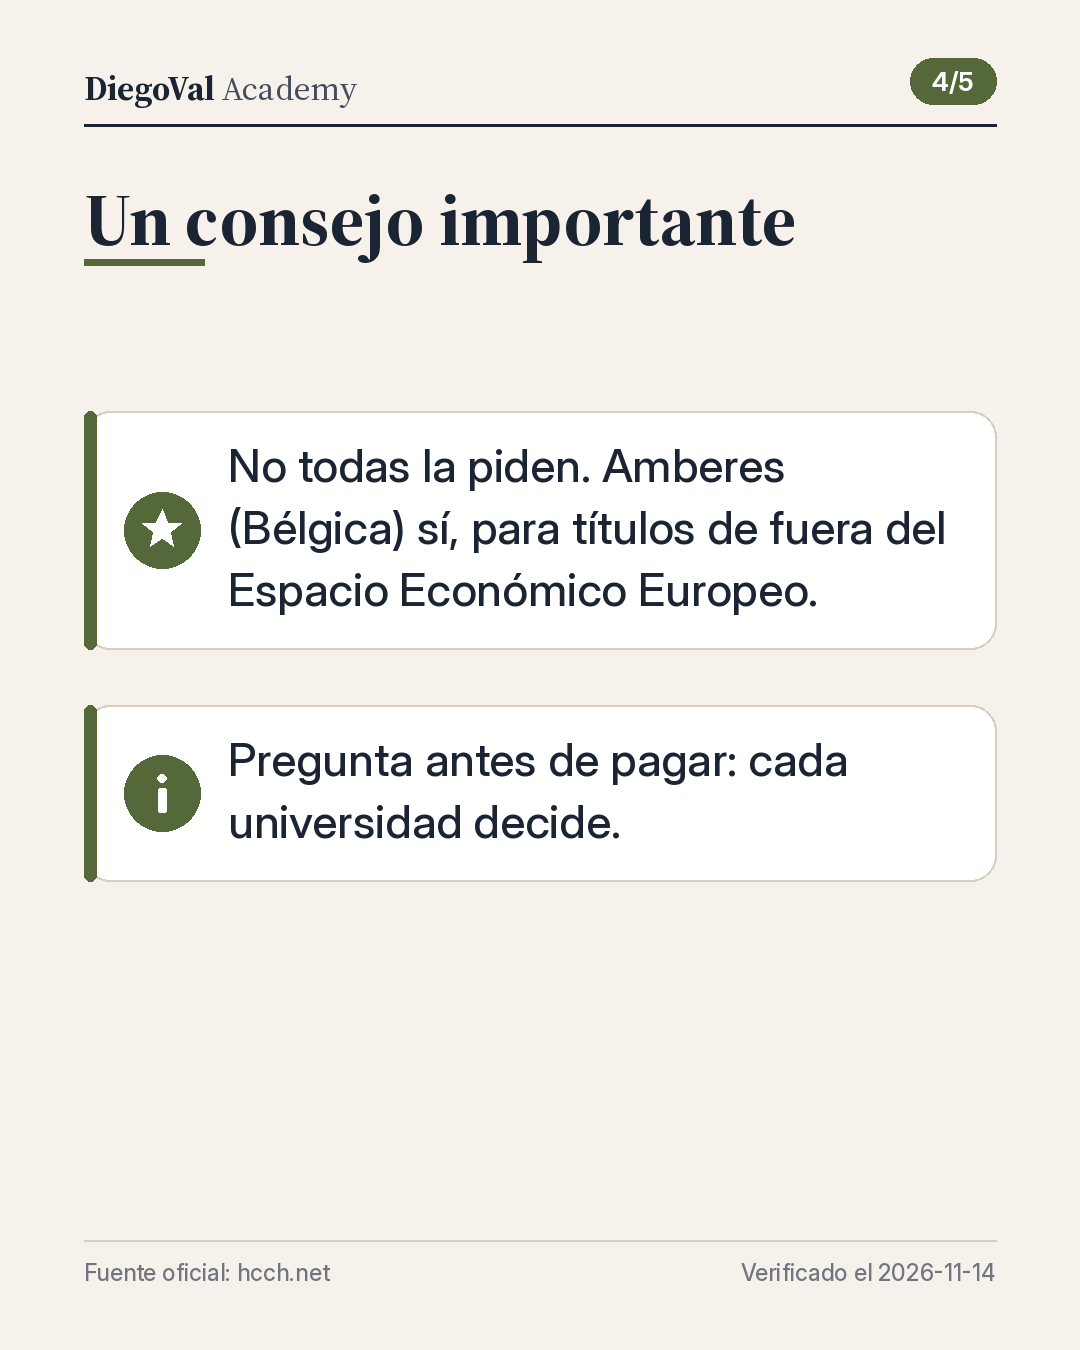
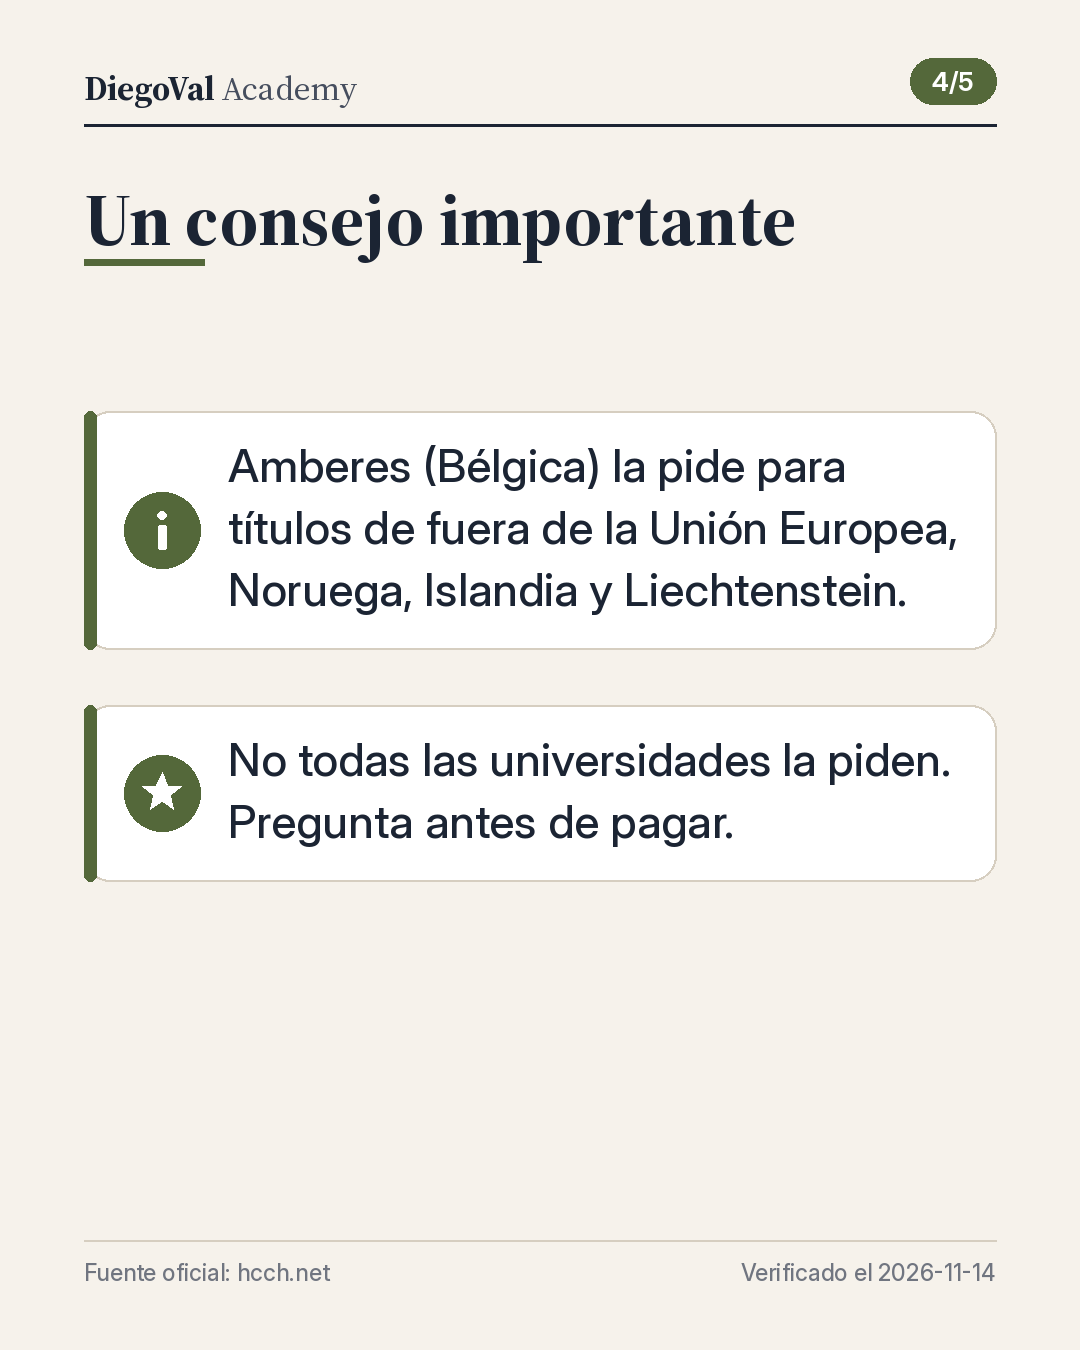
2026-11-14_sabado_apostilla-documentos: textos más sencillos tras 1.ª verificación
Claude-Session: https://claude.ai/code/session_01HRCw35mff8edXEcGgwoiFq

diff --git a/posts/2026-11-14_sabado_apostilla-documentos/caption.md b/posts/2026-11-14_sabado_apostilla-documentos/caption.md
@@ -1,20 +1,19 @@
-¿Te piden un documento «apostillado» y no sabes qué es? Es un sello oficial que confirma que un documento de tu país es auténtico para usarlo en otro país.
+¿Te piden un documento «apostillado» y no sabes qué es? Es un sello oficial que confirma que un documento de tu país es auténtico en otro país.
 
 En corto:
-• Qué es: la apostilla sustituye al trámite largo de «legalizar» (confirmar que un documento es auténtico), que el convenio oficial describe como largo y costoso.
-• Quién la pone: la autoridad que designa el país donde se hizo el documento.
-• Dónde sirve: en los 130 países del convenio, entre ellos México, Colombia, Perú, Argentina, Chile, España y Ecuador.
+• Qué es: sustituye al trámite largo de «legalizar» (confirmar que un documento es auténtico), que el convenio de la Apostilla (un acuerdo entre países) describe como largo y costoso.
+• Quién la pone: la oficina que tu país designa.
+• Dónde sirve: entre los 130 países del convenio; tu país y el de destino deben estar en la lista (México, Colombia, Perú, Argentina, Chile, España o Ecuador lo están).
 
-Lo que pocos explican: no todas las universidades la piden. La Universidad de Amberes (Bélgica) pide copias apostilladas de títulos de fuera del Espacio Económico Europeo (la Unión Europea más Noruega, Islandia y Liechtenstein). La página de admisión de máster de Suecia, en su sección para México, no la menciona. Pregunta antes de pagar.
+Lo que pocos explican: no todas las universidades la piden. La Universidad de Amberes (Bélgica) la pide para títulos de fuera de la Unión Europea, Noruega, Islandia y Liechtenstein. La página de admisión de máster de Suecia, para México, no la menciona. Pregunta antes de pagar.
 
 Cómo empezar:
-1. Mira si tu país está en la lista oficial de países.
-2. Busca qué autoridad de tu país pone la apostilla.
+1. Mira si tu país está en la lista oficial.
+2. Busca qué oficina de tu país la pone.
 3. Pregunta a la universidad si la pide y para qué documentos.
 
+Oficial: https://www.hcch.net/en/instruments/conventions/specialised-sections/apostille
 Lista de países: https://www.hcch.net/en/instruments/conventions/status-table/?cid=41
-Autoridades por país: https://www.hcch.net/en/instruments/conventions/authorities1/?cid=41
-Ejemplo de universidad: https://www.uantwerpen.be/en/study/admission-and-enrolment/admission/legalisation-official-documents/
 
 Verificado el: 2026-11-14
 

diff --git a/posts/2026-11-14_sabado_apostilla-documentos/validation.md b/posts/2026-11-14_sabado_apostilla-documentos/validation.md
@@ -1,0 +1,28 @@
+# Validación — 2026-11-14_sabado_apostilla-documentos
+
+Ejecutado: 2026-11-14T07:09:04+01:00
+Decisión: **BLOQUEADA: no publicar**
+
+| Estado | Comprobación | Detalle |
+|---|---|---|
+| PASS | Archivos obligatorios | imagen: post.json, post.png, caption.md, sources.md, metadata.json |
+| PASS | Metadatos | campos obligatorios presentes |
+| PASS | Imagen | 1080x1350 PNG, 1 archivo (+5 diapositivas de carrusel, ignoradas) |
+| PASS | Canal Buffer | DiegoVal Academy (6ae0bdf22f1f5ed648eb92f9) |
+| PASS | Verificación del día | 2026-11-14 |
+| PASS | Longitud del texto | 1231/1300 caracteres |
+| PASS | Fecha visible en el texto | Verificado el: 2026-11-14 |
+| PASS | Marcadores pendientes | ninguno |
+| PASS | Enlaces documentados en sources.md | 2 enlaces |
+| PASS | Enlace principal en el texto | https://www.hcch.net/en/instruments/conventions/specialised-sections/apostille |
+| PASS | Lo que pocos explican | presente en imagen y texto |
+| PASS | Sin URLs en la imagen | sólo dominio de la fuente |
+| PASS | Lenguaje sencillo: siglas (texto) | todas explicadas o ninguna |
+| PASS | Lenguaje sencillo: palabras difíciles (texto) | sin burocracia ni calcos detectados |
+| PASS | Lenguaje sencillo: siglas (imagen) | todas explicadas o ninguna |
+| PASS | Lenguaje sencillo: palabras difíciles (imagen) | sin burocracia ni calcos detectados |
+| PASS | Lenguaje sencillo: frases largas | todas ≤ 32 palabras |
+| FAIL | Lenguaje sencillo: revisión del verificador | falta metadata.plain_language_check con la pregunta exacta, answer 'sí', reviewer y checked_text_sha256 (python3 scripts/validate_post.py <carpeta> --plain-hash) |
+| PASS | Duplicados | sin repeticiones en 24 filas de todas las plataformas (URL canónica, topic_key y vídeo; mismo día en otra red permitido) |
+| PASS | Enlace accesible | 200 https://www.hcch.net/en/instruments/conventions/specialised-sections/apostille |
+| PASS | Enlace accesible | 200 https://www.hcch.net/en/instruments/conventions/status-table/?cid=41 |

diff --git a/posts/2026-11-14_sabado_apostilla-documentos/validation_instagram.md b/posts/2026-11-14_sabado_apostilla-documentos/validation_instagram.md
@@ -1,0 +1,24 @@
+# Validación Instagram — 2026-11-14_sabado_apostilla-documentos
+
+Ejecutado: 2026-11-14T07:09:06+01:00
+Decisión: **BLOQUEADA: no publicar**
+
+| Estado | Comprobación | Detalle |
+|---|---|---|
+| PASS | Archivos obligatorios | 5 imágenes + caption + carousel.json |
+| FAIL | Base verificada (LinkedIn) | falta validation.md APROBADA: el carrusel reutiliza esa investigación |
+| PASS | Imágenes 1080×1350 PNG | 5 imágenes correctas |
+| PASS | Imágenes actualizadas | generadas desde el carousel.json actual |
+| PASS | Imágenes sin URL completa | sólo dominios |
+| PASS | Fecha de verificación | 2026-11-14 |
+| PASS | Caption breve | 508 caracteres (máx. 1000) |
+| PASS | Hashtags | 4 (rango 3-8) |
+| PASS | Verificado el | 2026-11-14 |
+| PASS | Lenguaje sencillo: siglas (texto) | todas explicadas o ninguna |
+| PASS | Lenguaje sencillo: palabras difíciles (texto) | sin burocracia ni calcos detectados |
+| PASS | Lenguaje sencillo: siglas (imagen) | todas explicadas o ninguna |
+| PASS | Lenguaje sencillo: palabras difíciles (imagen) | sin burocracia ni calcos detectados |
+| PASS | Lenguaje sencillo: frases largas | todas ≤ 32 palabras |
+| FAIL | Lenguaje sencillo: revisión del verificador | falta metadata.instagram.plain_language_check (pregunta exacta, answer 'sí', reviewer, checked_text_sha256 = python3 scripts/validate_carousel.py <carpeta> --plain-hash) |
+| PASS | Duplicados (Instagram) | sin repeticiones en ninguna plataforma (mismo día en LinkedIn permitido) |
+| PASS | Verificación de hoy | 2026-11-14 |

diff --git a/posts/2026-11-14_sabado_apostilla-documentos/caption_instagram.md b/posts/2026-11-14_sabado_apostilla-documentos/caption_instagram.md
@@ -3,7 +3,7 @@
 Es un sello oficial que confirma que un documento de tu país es auténtico para usarlo en otro país.
 
 ✅ Sustituye al trámite largo de legalizar (confirmar que es auténtico)
-✅ La pone la autoridad que designa tu país
+✅ La pone una oficina oficial de tu país
 ✅ No todas las universidades la piden: pregunta antes de pagar
 
 Esta semana: mira si tu país está en la lista oficial de 130 países. Información oficial en hcch.net
